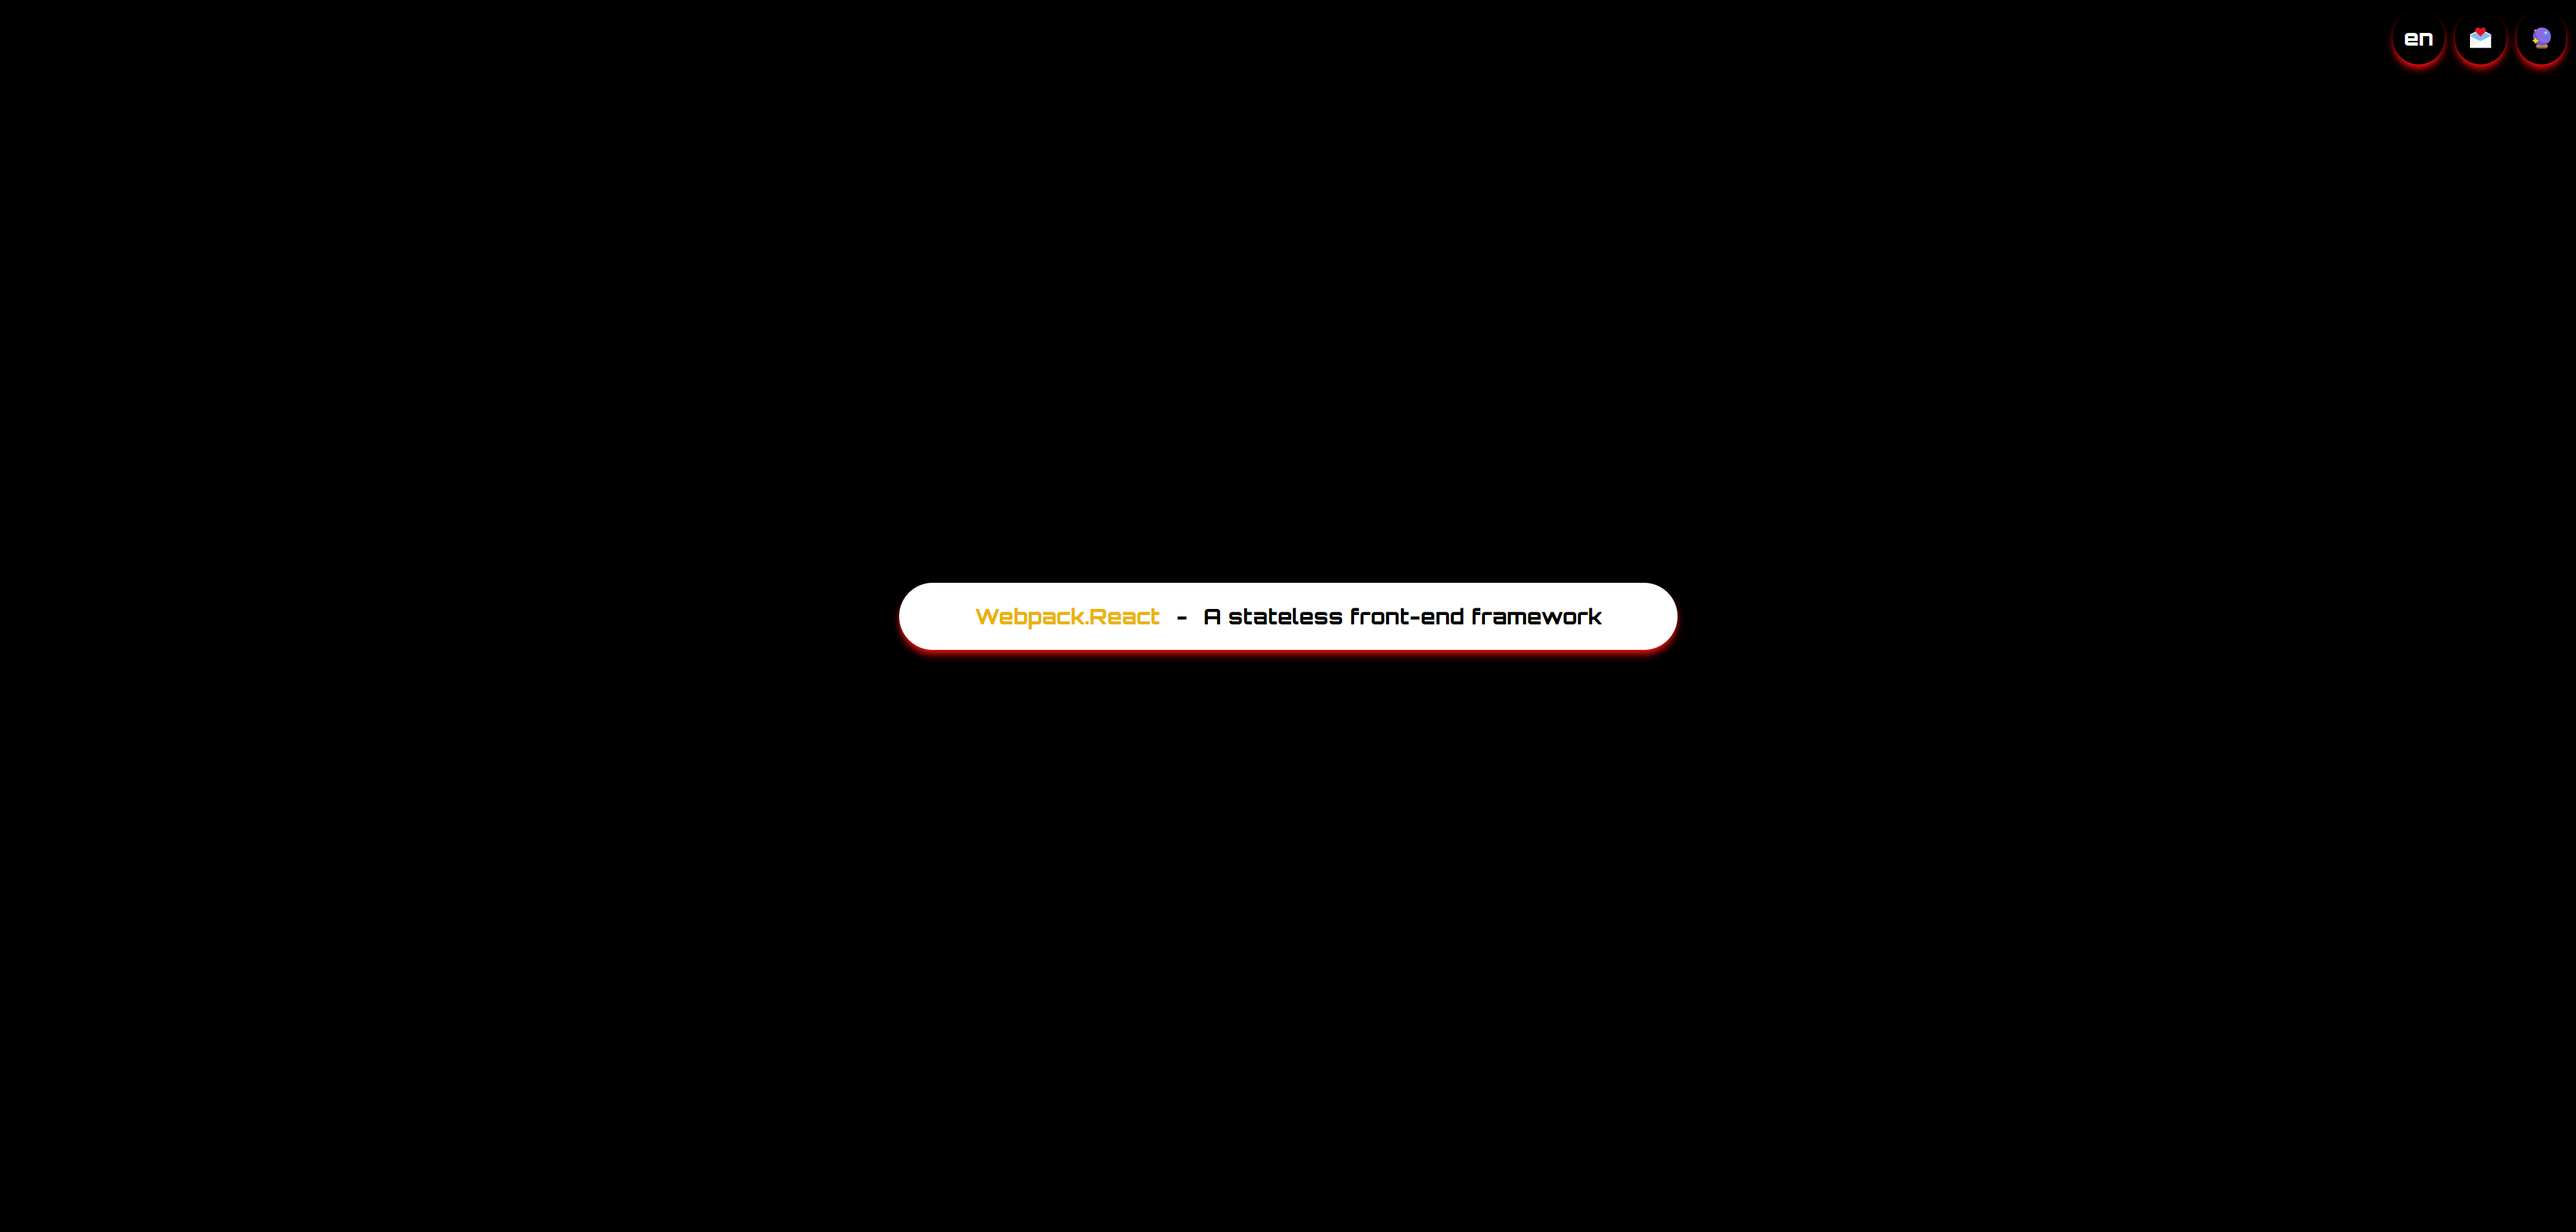
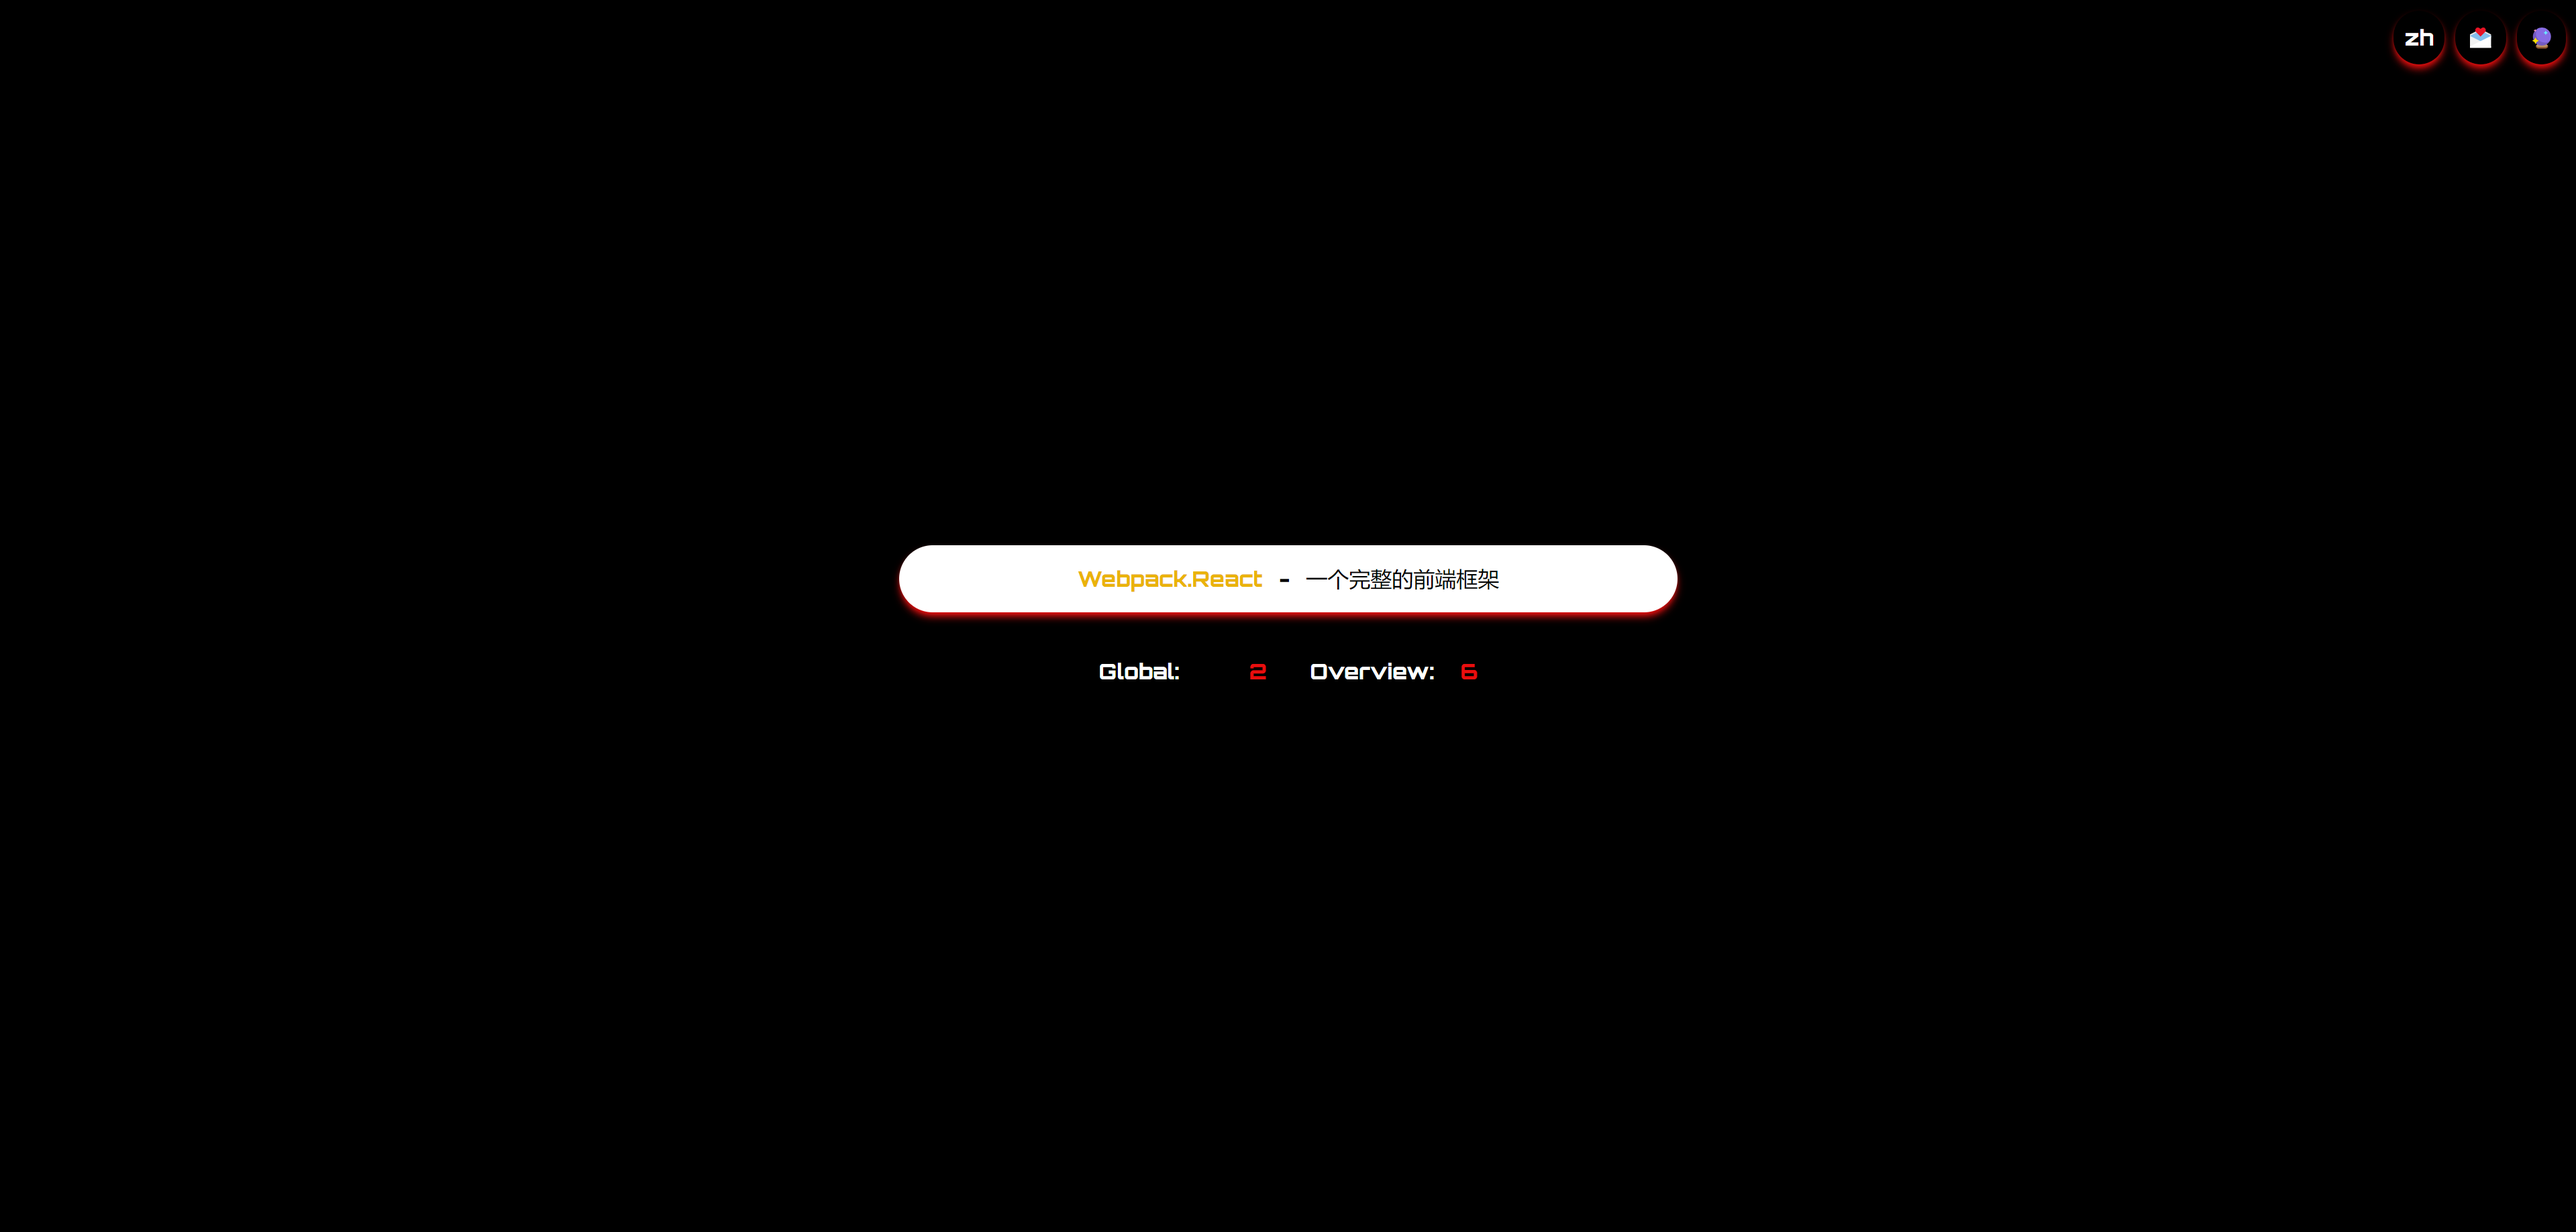
feat: update

Changed region(s): [[0.341, 0.4344, 0.651, 0.5585]]

diff --git a/src/modules/overview/pages/index.tsx b/src/modules/overview/pages/index.tsx
@@ -1,19 +1,29 @@
 import React from "react";
-import { useDarkmode } from "@style/core";
+import clsx from "clsx";
 import { useTranslation, useLocales } from "@i18n";
 import { getYiyan } from "@/overview/service";
+import { useDarkmode } from "@style/core";
+import { useGlobalStore } from "@/global/store";
+import { useOverviewStore } from "@/overview/store";
 export default function Overview() {
   const darkMode = useDarkmode();
   const lng = useLocales();
-
   const [t] = useTranslation();
+
+  const GlobalStore = useGlobalStore();
+  const OverviewStore = useOverviewStore();
 
   const onGetYiyan = () => {
     getYiyan().then((resp) => console.log(resp.result.author));
   };
   return (
-    <div className="w-full h-full flex flex-1 justify-center items-center">
-      <div className="flex absolute top-2 right-2">
+    <div
+      className={clsx(
+        "w-full h-full",
+        "flex flex-col flex-1 justify-center items-center",
+      )}
+    >
+      <div className={clsx("flex", "absolute top-2 right-2")}>
         <div
           className="rounded-full p-2 cursor-pointer shadow-md shadow-[var(--primary-color)]"
           onClick={() => {
@@ -23,20 +33,36 @@ export default function Overview() {
           {lng.value}
         </div>
         <div
-          className="rounded-full p-2 cursor-pointer shadow-md shadow-[var(--primary-color)] mx-2"
+          className={clsx(
+            "rounded-full cursor-pointer",
+            "p-2 mx-2",
+            "shadow-md shadow-primary ",
+          )}
           onClick={onGetYiyan}
         >
           💌
         </div>
         <div
-          className="rounded-full p-2 cursor-pointer shadow-md shadow-[var(--primary-color)]"
+          className={clsx(
+            "rounded-full cursor-pointer",
+            "p-2",
+            "shadow-md shadow-primary",
+          )}
           onClick={() => darkMode.toggle()}
         >
           {darkMode.value === "light" ? "☀" : "🔮"}
         </div>
       </div>
+
       <div
-        className="w-[580px] h-[50px] rounded-full flex justify-center items-center mx-auto bg-white text-black relative  shadow-md shadow-[var(--primary-color)] cursor-pointer hover:bg-[var(--primary-color)] hover:text-white"
+        className={clsx(
+          "w-[580px] h-[50px] relative rounded-full",
+          "mx-auto mb-8",
+          "flex justify-center items-center",
+          "shadow-md shadow-primary cursor-pointer",
+          "bg-white text-black",
+          "hover:bg-primary hover:text-white",
+        )}
         onClick={() => {
           window.open("https://github.com/ubuding/Webpack.React", "_blank");
         }}
@@ -46,6 +72,24 @@ export default function Overview() {
         </span>
         <span className="mx-3">-</span>
         <span>{t("overview.introduction")}</span>
+      </div>
+
+      <div>
+        <span
+          className="cursor-pointer"
+          onClick={() => GlobalStore.increase(GlobalStore.count + 1)}
+        >
+          <span className="inline-block w-28">Global:</span>
+          <span className="mr-8 text-primary">{GlobalStore.count}</span>
+        </span>
+
+        <span
+          className="cursor-pointer"
+          onClick={() => OverviewStore.increase(OverviewStore.count + 1)}
+        >
+          <span className="inline-block w-28">Overview:</span>
+          <span className="text-primary">{OverviewStore.double()}</span>
+        </span>
       </div>
     </div>
   );

diff --git a/src/modules/overview/store.ts b/src/modules/overview/store.ts
@@ -1,0 +1,17 @@
+import { create } from "zustand";
+
+interface State {
+  count: number;
+  increase: (value: number) => void;
+  decrease: () => void;
+  clear: () => void;
+  double: () => number;
+}
+
+export const useOverviewStore = create<State>((set, get) => ({
+  count: 0,
+  increase: (value) => set(() => ({ count: value })),
+  decrease: () => set((state) => ({ count: state.count - 1 })),
+  clear: () => set({ count: 0 }),
+  double: () => get().count * 2,
+}));

diff --git a/src/modules/global/store.ts b/src/modules/global/store.ts
@@ -1,0 +1,17 @@
+import { create } from "zustand";
+
+interface State {
+  count: number;
+  increase: (value: number) => void;
+  decrease: () => void;
+  clear: () => void;
+  double: () => number;
+}
+
+export const useGlobalStore = create<State>((set, get) => ({
+  count: 0,
+  increase: (value) => set(() => ({ count: value })),
+  decrease: () => set((state) => ({ count: state.count - 1 })),
+  clear: () => set({ count: 0 }),
+  double: () => get().count * 2,
+}));

diff --git a/tailwind.config.js b/tailwind.config.js
@@ -4,6 +4,9 @@ module.exports = {
   content: ["./src/**/*.tsx"],
   theme: {
     extend: {
+      colors: {
+        primary: "var(--primary-color)",
+      },
       fontFamily: {
         Orbitron: ["Orbitron"],
       },

diff --git a/README.md b/README.md
@@ -1,6 +1,6 @@
 # Webpack.React
 
-> A stateless front-end framework
+> A complete front-end framework
 
 ## Development
 
@@ -9,6 +9,10 @@
 ## Request
 
 > Use `axios` with `@request` with webpack proxy
+
+## State Management
+
+> Use `zustand` for state management. If you need to use other state management, please rest assured that you can easily replace it.
 
 ## Globalization
 

diff --git a/src/modules/global/README.md b/src/modules/global/README.md
@@ -1,0 +1,15 @@
+### Global
+
+> Global storage files, Can be called arbitrarily through SSS `@/global/*`
+
+### Global Route
+
+> Automatic integration has been achieved
+
+### Global Service
+
+> Use `axios` via `@/global/service`
+
+### Global Store
+
+> Use `zustand` via `import { useGlobalStore } from "@/global/store"`

diff --git a/src/modules/overview/README.md b/src/modules/overview/README.md
@@ -9,3 +9,7 @@
 ### Modular Service
 
 > Use `axios` via `@/moduleName/service`
+
+### Modular Store
+
+> Use `zustand` via `import { useModuleNameStore } from "@/moduleName/store"`
